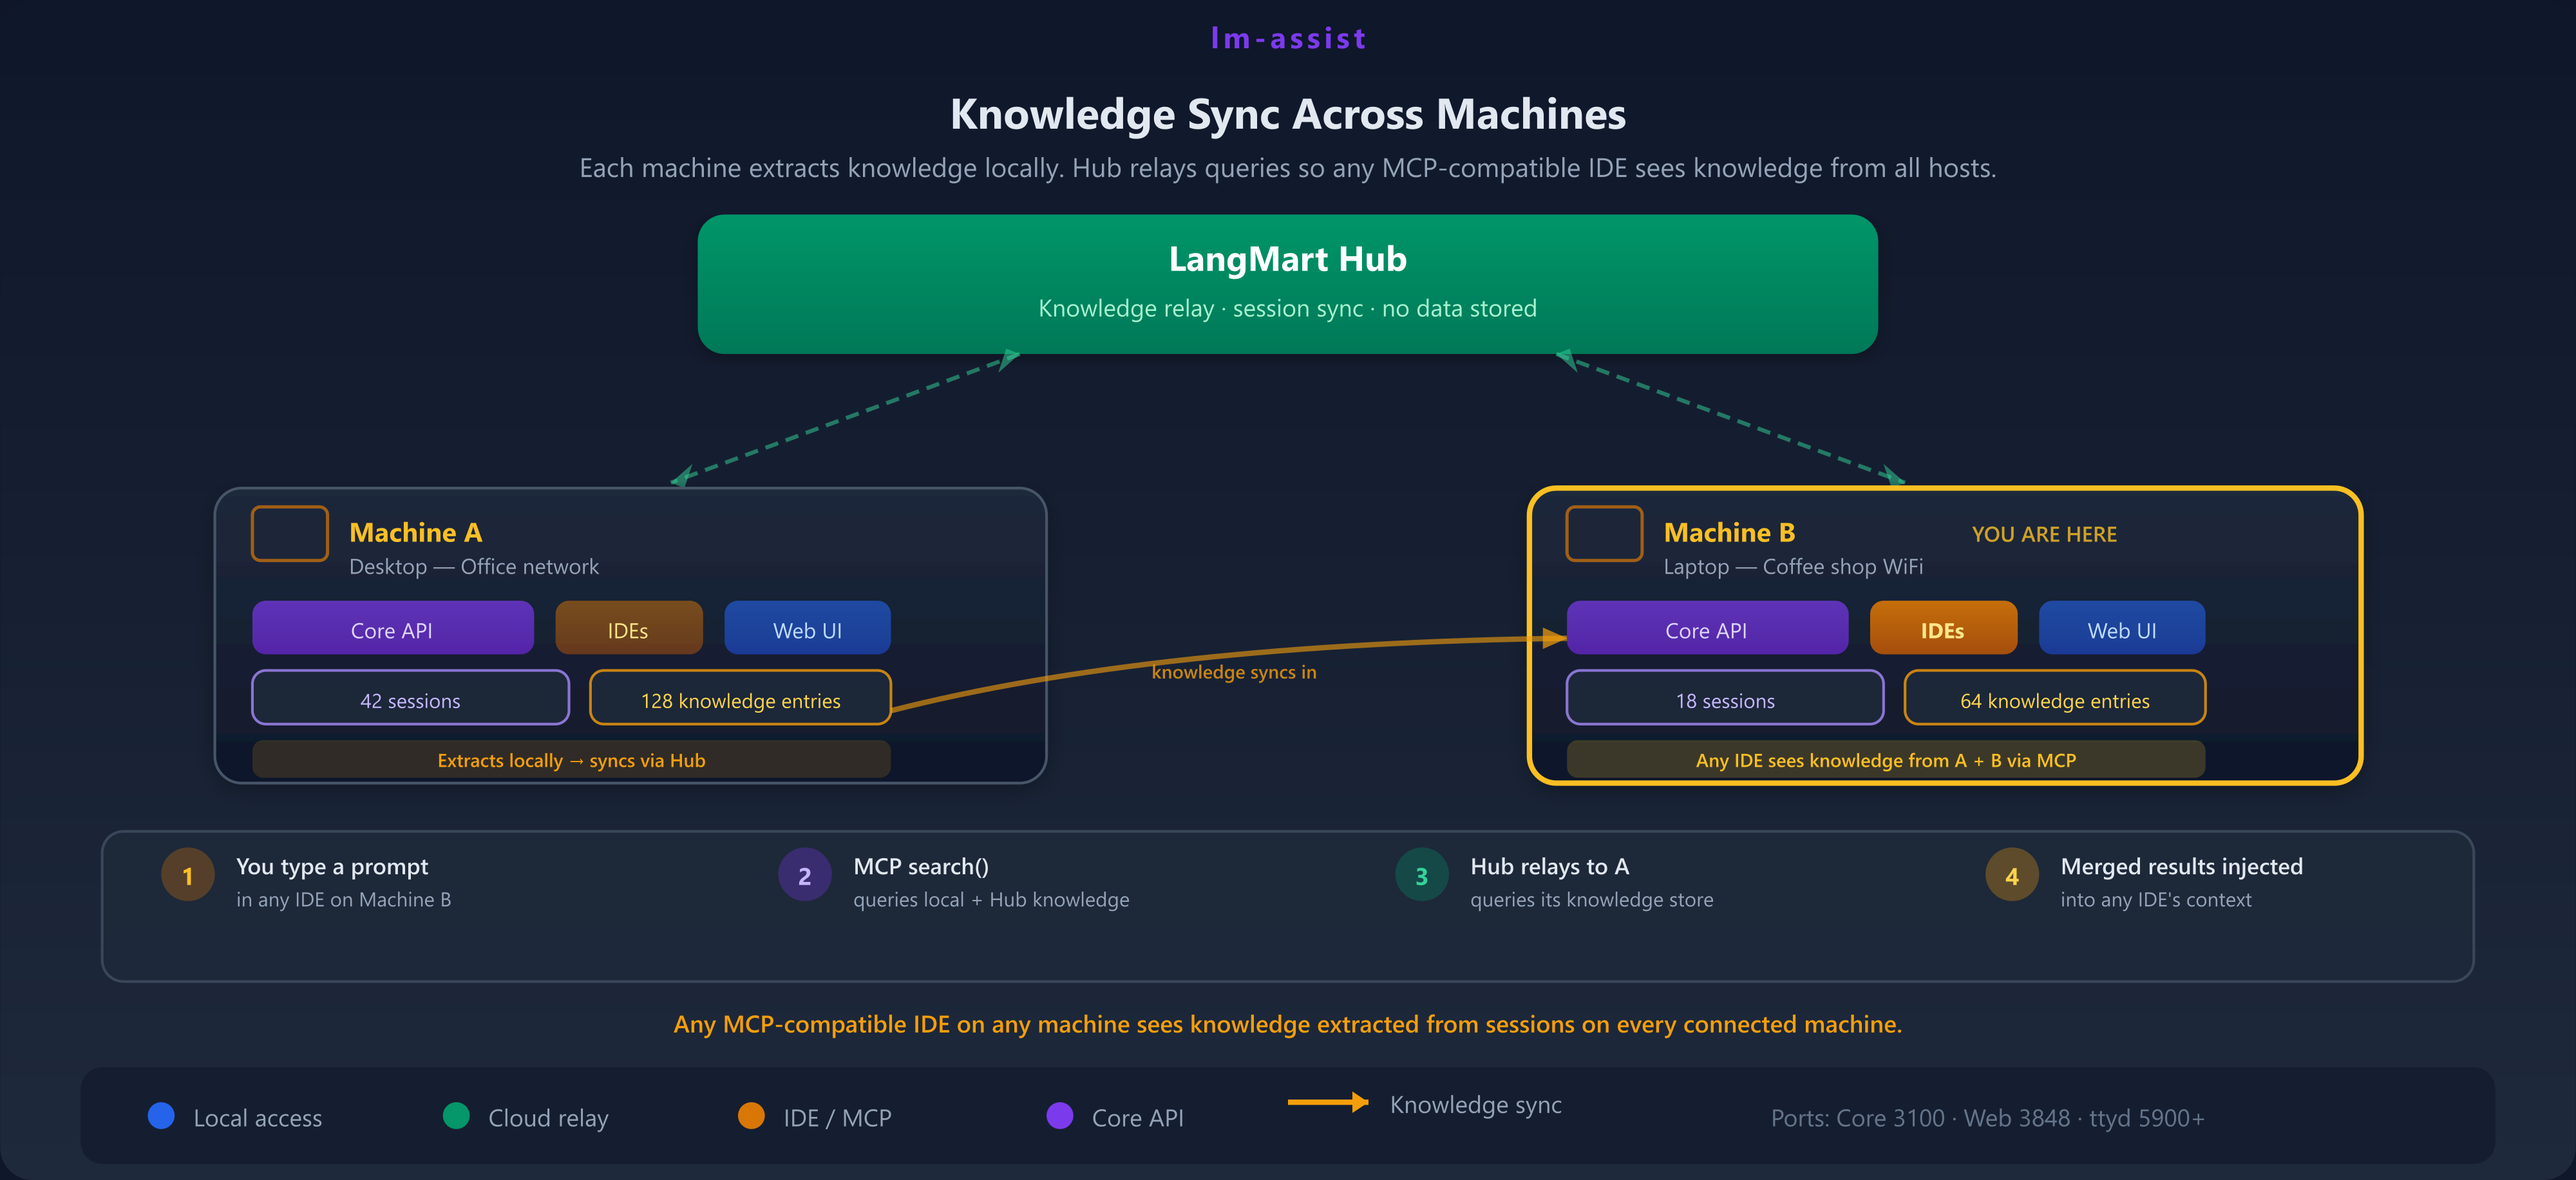
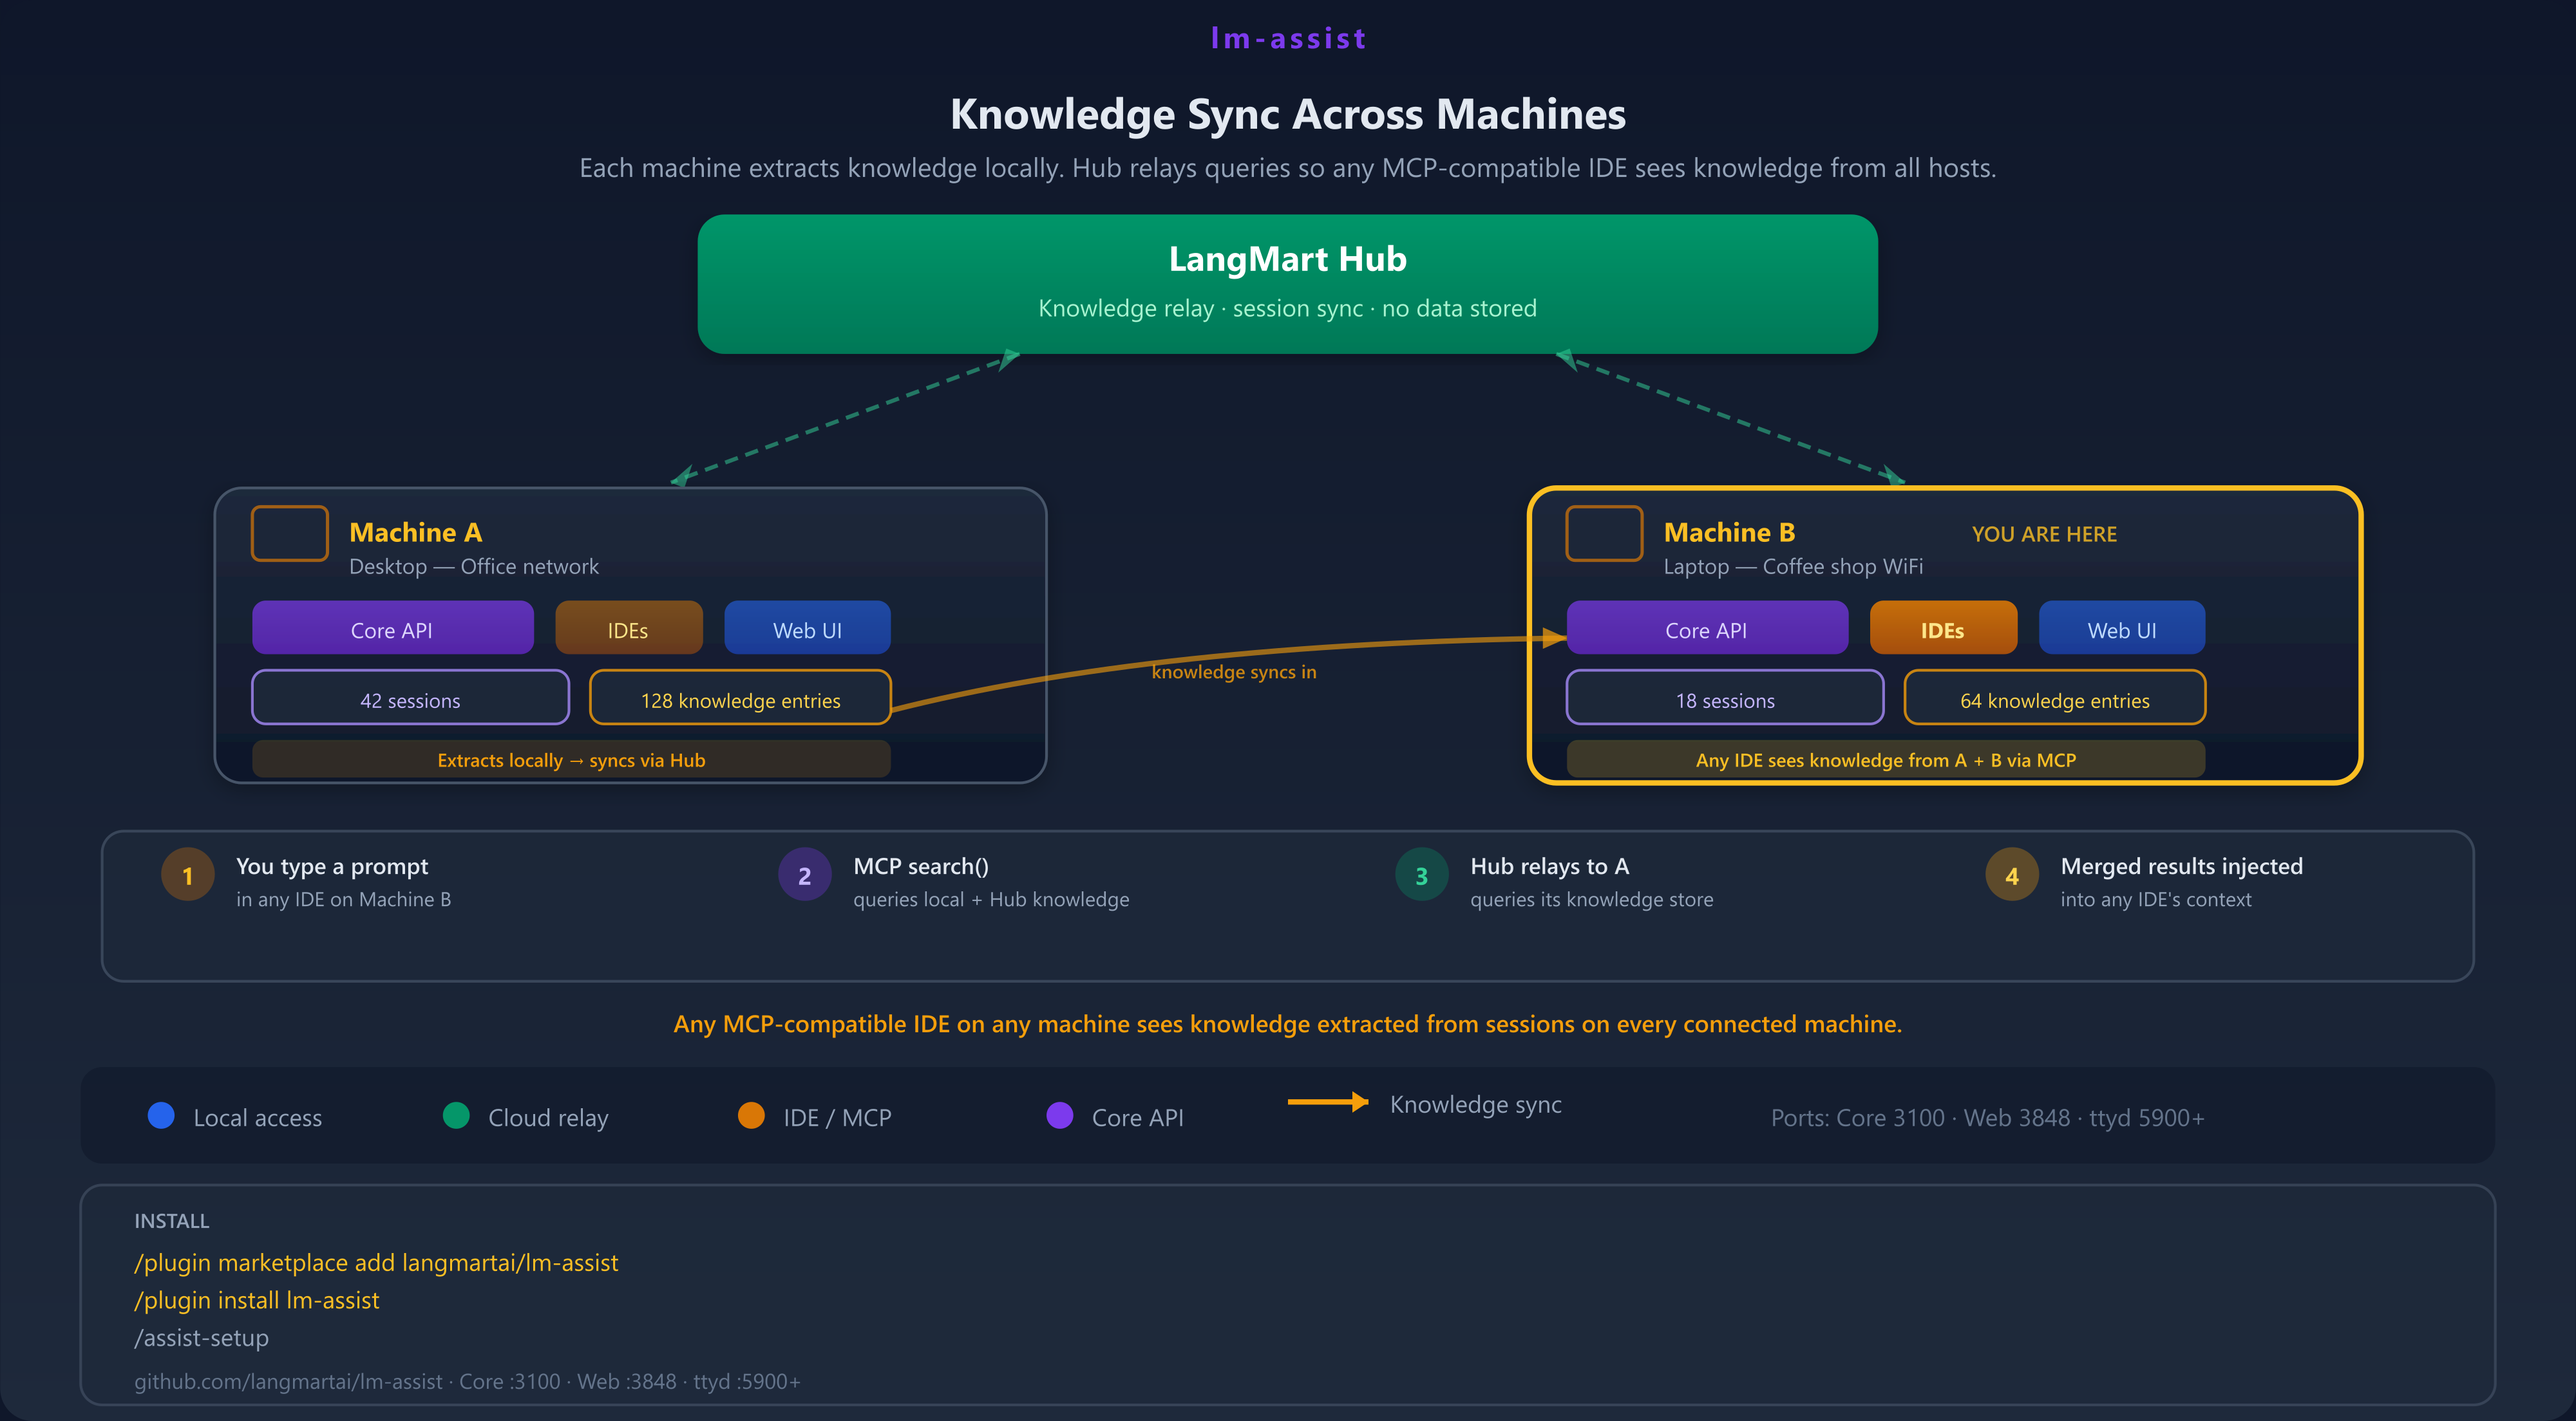
docs: update architecture diagrams and add installation instructions

diff --git a/docs/architecture-diagram.js b/docs/architecture-diagram.js
@@ -47,6 +47,17 @@ function brandBar(w, y) {
   <text x="${cx}" y="${y + 18}" text-anchor="middle" fill="#7c3aed" font-size="11" font-weight="700" letter-spacing="1.5">lm-assist</text>`;
 }
 
+// Shared install + GitHub footer block
+function installFooter(x, y, w) {
+  return `
+  <rect x="${x}" y="${y}" width="${w}" height="82" rx="8" fill="#1e293b" stroke="#475569" stroke-width="1" opacity="0.6"/>
+  <text x="${x+20}" y="${y+16}" fill="#94a3b8" font-size="7.5" font-weight="600">INSTALL</text>
+  <text x="${x+20}" y="${y+32}" fill="#fbbf24" font-size="9">/plugin marketplace add langmartai/lm-assist</text>
+  <text x="${x+20}" y="${y+46}" fill="#fbbf24" font-size="9">/plugin install lm-assist</text>
+  <text x="${x+20}" y="${y+60}" fill="#94a3b8" font-size="9">/assist-setup</text>
+  <text x="${x+20}" y="${y+76}" fill="#64748b" font-size="8">github.com/langmartai/lm-assist  ·  Core :3100  ·  Web :3848  ·  ttyd :5900+</text>`;
+}
+
 async function renderSvgToPng(svgString, outPath) {
   const buf = await sharp(Buffer.from(svgString), { density: 300 })
     .flatten({ background: '#0f172a' })
@@ -71,15 +82,15 @@ async function main() {
 // SVG 1: IDE → MCP → Knowledge Pipeline
 // ============================================================
 function buildTopLeftSvg() {
-  const W = 500, H = 560;
+  const W = 500, H = 580;
   return `<svg xmlns="http://www.w3.org/2000/svg" viewBox="0 0 ${W} ${H}" font-family="'Segoe UI', system-ui, -apple-system, sans-serif">
   ${DEFS}
   <rect width="${W}" height="${H}" fill="url(#bgGrad)" rx="12"/>
   ${brandBar(W, 0)}
 
   <!-- Title -->
-  <text x="${W/2}" y="50" text-anchor="middle" fill="#fbbf24" font-size="14" font-weight="700">You → Any IDE → Knowledge</text>
-  <text x="${W/2}" y="66" text-anchor="middle" fill="#94a3b8" font-size="8">MCP integration — works with every MCP-compatible IDE</text>
+  <text x="${W/2}" y="50" text-anchor="middle" fill="#fbbf24" font-size="14" font-weight="700">Turn Claude Code Sessions Into Reusable Knowledge</text>
+  <text x="${W/2}" y="66" text-anchor="middle" fill="#94a3b8" font-size="8">Extracts what Claude Code already knows from past sessions · serves it to any MCP-compatible IDE</text>
 
   <!-- Step 1: You → Your IDE -->
   <circle cx="90" cy="96" r="16" fill="#38bdf8" opacity="0.12"/>
@@ -155,14 +166,8 @@ function buildTopLeftSvg() {
   <polygon points="20,162 12,168 16,160" fill="#94a3b8" opacity="0.35"/>
   <text x="-2" y="310" fill="#94a3b8" font-size="7" opacity="0.5" transform="rotate(-90,-2,310)">new sessions feed back</text>
 
-  <!-- Key Paths -->
-  <rect x="20" y="480" width="460" height="68" rx="8" fill="#1e293b" stroke="#475569" stroke-width="1" opacity="0.6"/>
-  <path d="M45 500 a10 10 0 1 1 2 -5" fill="none" stroke="#f59e0b" stroke-width="2" stroke-linecap="round"/>
-  <polygon points="47,495 43,502 51,500" fill="#f59e0b"/>
-  <text x="65" y="497" fill="#e2e8f0" font-size="9.5" font-weight="600">Knowledge Cycle</text>
-  <text x="65" y="510" fill="#94a3b8" font-size="8">Sessions → extract → vector DB → inject into future sessions</text>
-  <text x="65" y="523" fill="#f59e0b" font-size="8" font-weight="600">Every IDE session starts with knowledge from past sessions</text>
-  <text x="65" y="538" fill="#64748b" font-size="7.5">Sessions: ~/.claude/projects/*/sessions/*.jsonl  ·  Knowledge: ~/.lm-assist/knowledge/</text>
+  <!-- Install + GitHub -->
+  ${installFooter(20, 480, 460)}
 </svg>`;
 }
 
@@ -239,13 +244,8 @@ function buildTopRightSvg() {
   <text x="270" y="428" fill="#94a3b8" font-size="8">Browse knowledge base</text>
   <text x="270" y="440" fill="#94a3b8" font-size="8">Task kanban across all sessions</text>
 
-  <!-- Quick Start -->
-  <rect x="30" y="466" width="440" height="82" rx="8" fill="#1e293b" stroke="#475569" stroke-width="1" opacity="0.6"/>
-  <text x="50" y="484" fill="#94a3b8" font-size="7.5" font-weight="600">QUICK START</text>
-  <text x="50" y="500" fill="#fbbf24" font-size="9">/plugin marketplace add langmartai/lm-assist</text>
-  <text x="50" y="514" fill="#fbbf24" font-size="9">/plugin install lm-assist</text>
-  <text x="50" y="528" fill="#94a3b8" font-size="9">/assist-setup</text>
-  <text x="50" y="542" fill="#64748b" font-size="8">Core API :3100  ·  Web UI :3848  ·  ttyd :5900+</text>
+  <!-- Install + GitHub -->
+  ${installFooter(30, 466, 440)}
 </svg>`;
 }
 
@@ -253,7 +253,7 @@ function buildTopRightSvg() {
 // SVG 3: Knowledge Sync Across Machines (2 hosts)
 // ============================================================
 function buildBottomSvg() {
-  const W = 960, H = 440;
+  const W = 960, H = 530;
   return `<svg xmlns="http://www.w3.org/2000/svg" viewBox="0 0 ${W} ${H}" font-family="'Segoe UI', system-ui, -apple-system, sans-serif">
   ${DEFS}
   <rect width="${W}" height="${H}" fill="url(#bgGrad)" rx="12"/>
@@ -356,6 +356,9 @@ function buildBottomSvg() {
   <polygon points="510,411 504,407 504,415" fill="#f59e0b"/>
   <text x="518" y="415" fill="#94a3b8" font-size="9">Knowledge sync</text>
   <text x="660" y="420" fill="#64748b" font-size="9">Ports: Core 3100 · Web 3848 · ttyd 5900+</text>
+
+  <!-- Install + GitHub -->
+  ${installFooter(30, 442, 900)}
 </svg>`;
 }
 
